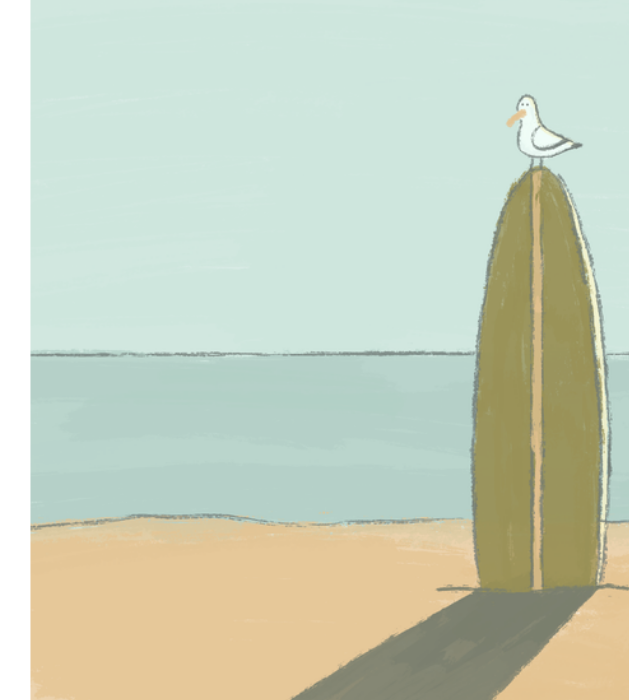
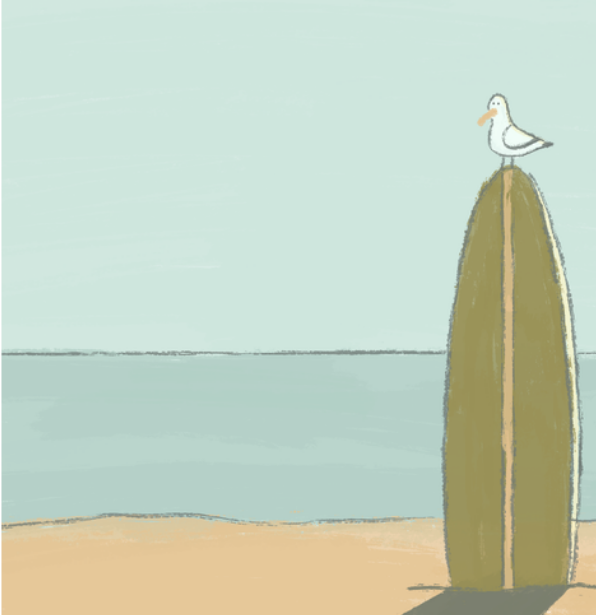
blabla

Changed region(s): [[0.0, 0.0, 1.0, 1.0], [0.8456, 0.6488, 0.8758, 0.7415]]

diff --git a/It's on/styles/style.scss b/It's on/styles/style.scss
@@ -43,64 +43,44 @@ body {
   font-family: "Raleway Dots", cursive;
   font-size: 88%;
 }
+.weatherDisplay__wind {
+  margin-top: 0;
+}
+.weatherDisplay__city {
+  margin-bottom: 0;
+}
 .maincard {
   position: fixed;
   display: flex;
   flex-direction: column;
   align-items: center;
   left: -300px;
-  width: 90vw;
+
   height: 65%;
   margin-top: 15px;
-  border-radius: 15px;
   font-family: "Fjalla One", sans-serif;
   font-size: 150%;
 }
-.maincard__itsoff {
+.maincard__itsoff,
+.maincard__itson {
   background: url(Itsoff-img.png) no-repeat center center fixed;
-  -webkit-background-size: cover;
-  -moz-background-size: cover;
-  -o-background-size: cover;
   background-size: cover;
+  background-position: right;
   background-attachment: fixed;
   display: flex;
   flex-direction: column;
   align-items: center;
   left: -300px;
-  width: 90vw;
+  width: 94vw;
   height: 98vh;
   border-radius: 15px;
 }
 .maincard__itson {
   background: url(ITSONimg.png) no-repeat center center fixed;
-  -webkit-background-size: cover;
-  -moz-background-size: cover;
-  -o-background-size: cover;
-  background-size: cover;
-  background-attachment: fixed;
-  display: flex;
-  flex-direction: column;
-  align-items: center;
-  left: -300px;
-  width: 90vw;
-  height: 98vh;
-  border-radius: 15px;
 }
 
-.forecast-btn {
-  width: 150px;
-  height: 35px;
-  border-radius: 12px;
-  background-color: #e8e384;
-  font-family: "Fjalla One", sans-serif;
-  justify-self: center;
-  align-self: center;
-  border: none;
-  color: #30332b;
-  margin: 5%;
-}
 .change {
-  left: 5%;
+  left: 3%;
 }
 .maincard__firsttext {
   font-size: 230%;
@@ -113,12 +93,13 @@ body {
   color: #30332b;
 }
 .maincard__secondtext {
-  font-size: 80%;
+  font-size: 100%;
   color: #30332b;
-  margin: 5px;
+  margin: 30px;
 }
 
 /* Loadingpage */
+<<<<<<< Updated upstream
 .bodyloadingscreen{
     background: url(background-loadingpage-newnew.png) no-repeat center center fixed;
 -webkit-background-size: cover;
@@ -126,6 +107,16 @@ body {
 -o-background-size: cover;
 background-size: cover;
 background-attachment: fixed;
+=======
+.bodyloadingscreen {
+  background: url(background-loadingpage-newnew.png) no-repeat center center
+    fixed;
+  -webkit-background-size: cover;
+  -moz-background-size: cover;
+  -o-background-size: cover;
+  background-size: cover;
+  background-attachment: fixed;
+>>>>>>> Stashed changes
 }
 .loadingscreen__img {
   -webkit-animation: spin 8s linear infinite; /* Safari */

diff --git a/It's on/styles/style.css b/It's on/styles/style.css
@@ -41,61 +41,47 @@ body {
   font-size: 88%;
 }
 
+.weatherDisplay__wind {
+  margin-top: 0;
+}
+
+.weatherDisplay__city {
+  margin-bottom: 0;
+}
+
 .maincard {
   position: fixed;
   display: flex;
   flex-direction: column;
   align-items: center;
   left: -300px;
-  width: 90vw;
   height: 65%;
   margin-top: 15px;
-  border-radius: 15px;
   font-family: "Fjalla One", sans-serif;
   font-size: 150%;
 }
 
-.maincard__itsoff {
+.maincard__itsoff,
+.maincard__itson {
   background: url(Itsoff-img.png) no-repeat center center fixed;
   background-size: cover;
+  background-position: right;
   background-attachment: fixed;
   display: flex;
   flex-direction: column;
   align-items: center;
   left: -300px;
-  width: 90vw;
+  width: 94vw;
   height: 98vh;
   border-radius: 15px;
 }
 
 .maincard__itson {
   background: url(ITSONimg.png) no-repeat center center fixed;
-  background-size: cover;
-  background-attachment: fixed;
-  display: flex;
-  flex-direction: column;
-  align-items: center;
-  left: -300px;
-  width: 90vw;
-  height: 98vh;
-  border-radius: 15px;
-}
-
-.forecast-btn {
-  width: 150px;
-  height: 35px;
-  border-radius: 12px;
-  background-color: #e8e384;
-  font-family: "Fjalla One", sans-serif;
-  justify-self: center;
-  align-self: center;
-  border: none;
-  color: #30332b;
-  margin: 5%;
 }
 
 .change {
-  left: 5%;
+  left: 3%;
 }
 
 .maincard__firsttext {
@@ -111,9 +97,9 @@ body {
 }
 
 .maincard__secondtext {
-  font-size: 80%;
+  font-size: 100%;
   color: #30332b;
-  margin: 5px;
+  margin: 30px;
 }
 
 /* Loadingpage */

diff --git a/It's on/script.js b/It's on/script.js
@@ -73,6 +73,7 @@ const maincard = document.querySelector(".maincard");
 
         // update name of the city with the currently selected one
         city.textContent = data.LocationName;
+        wind.textContent = data.CurrentData.windText;
         // Først hent data fra vejr api, er gemt i variablen data
         let windDataString = data.CurrentData.windText;
          // f.ek.s "4 m/s Vest"
@@ -98,7 +99,6 @@ const maincard = document.querySelector(".maincard");
             - leave work - <br>
             - go surf! - 
         </p>
-        <button class="forecast-btn">Show me the forecast</button>
         </section>`
         
         } 
@@ -114,7 +114,6 @@ const maincard = document.querySelector(".maincard");
                 it's on  <br>
                 somewhere else. 
             </p>
-            <button class="forecast-btn">Show me the forecast</button>
         </section>`
         }
         /*else {

diff --git a/It's on/itson.html b/It's on/itson.html
@@ -12,14 +12,15 @@
     <section class="cityselector">
         <h2 class="cityselector__title">Choose City</h2>
         <select class="citySelector__input">
+            <option value="klitmøller">Klitmøller</option>
             <option value="vejle">Vejle</option>
             <option value="herning">Herning</option>
-            <option value="klitmøller">Klitmøller</option>
             <option value="kollund">Kollund</option>
         </select>
     </section>
     <section class="weatherDisplay">
         <h3 class="weatherDisplay__city"></h3>
+        <h3 class="weatherDisplay__wind"></h3>
     </section>
     <main class="maincard">
         
